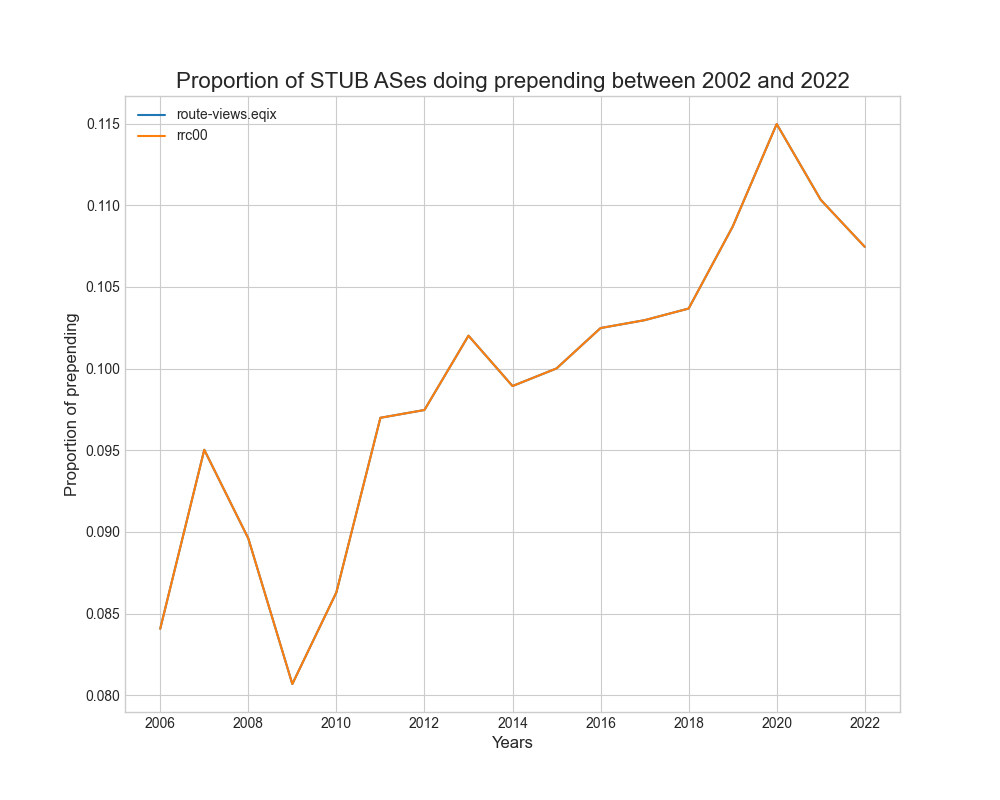
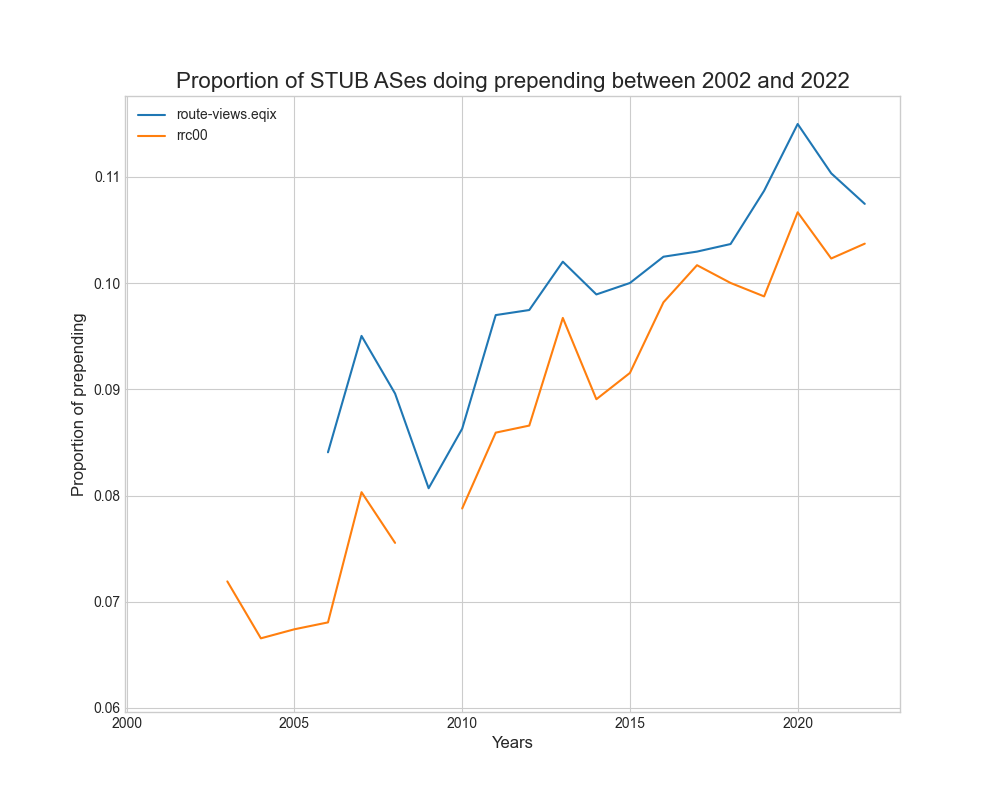
quick fix plotter

diff --git a/src/plotter.py b/src/plotter.py
@@ -8,7 +8,7 @@ column = df['prepend_count'] / df['route_count']
 print(df)
 print(column)
 
-df2 = pd.read_csv('src/output/prepend_proportion_route-views.eqix_2002_2022.csv')
+df2 = pd.read_csv('src/output/prepend_proportion_rrc00_2000_2022.csv')
 row2 = df2['year']
 column2 = df2['prepend_count'] / df2['route_count']
 print(df2)
